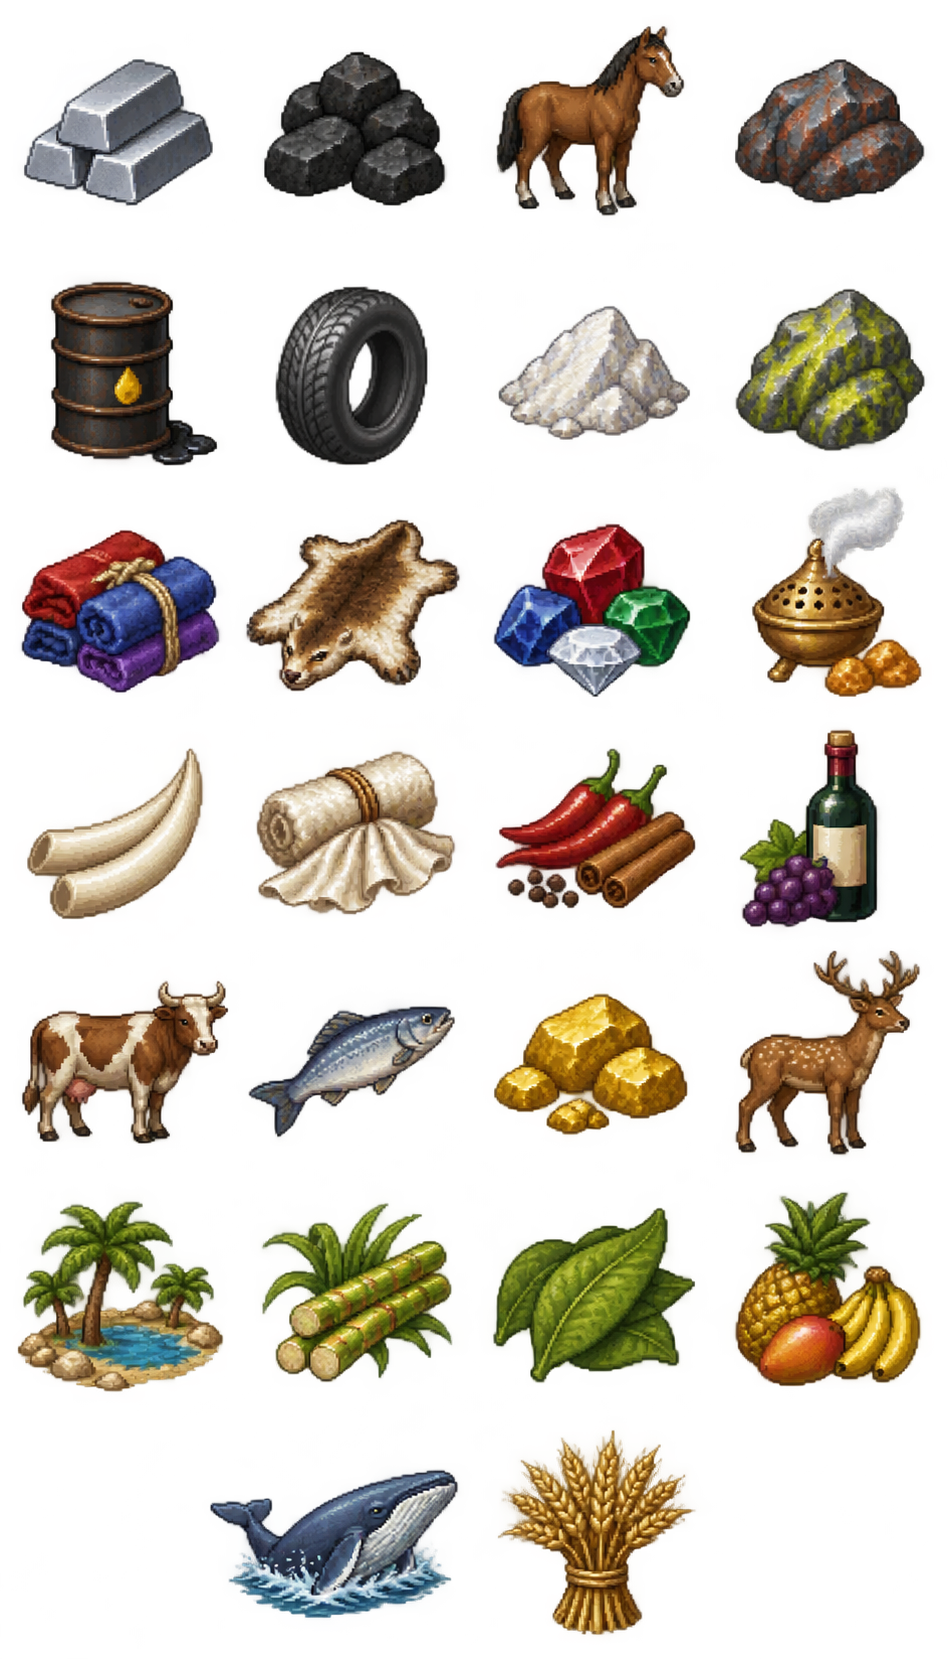
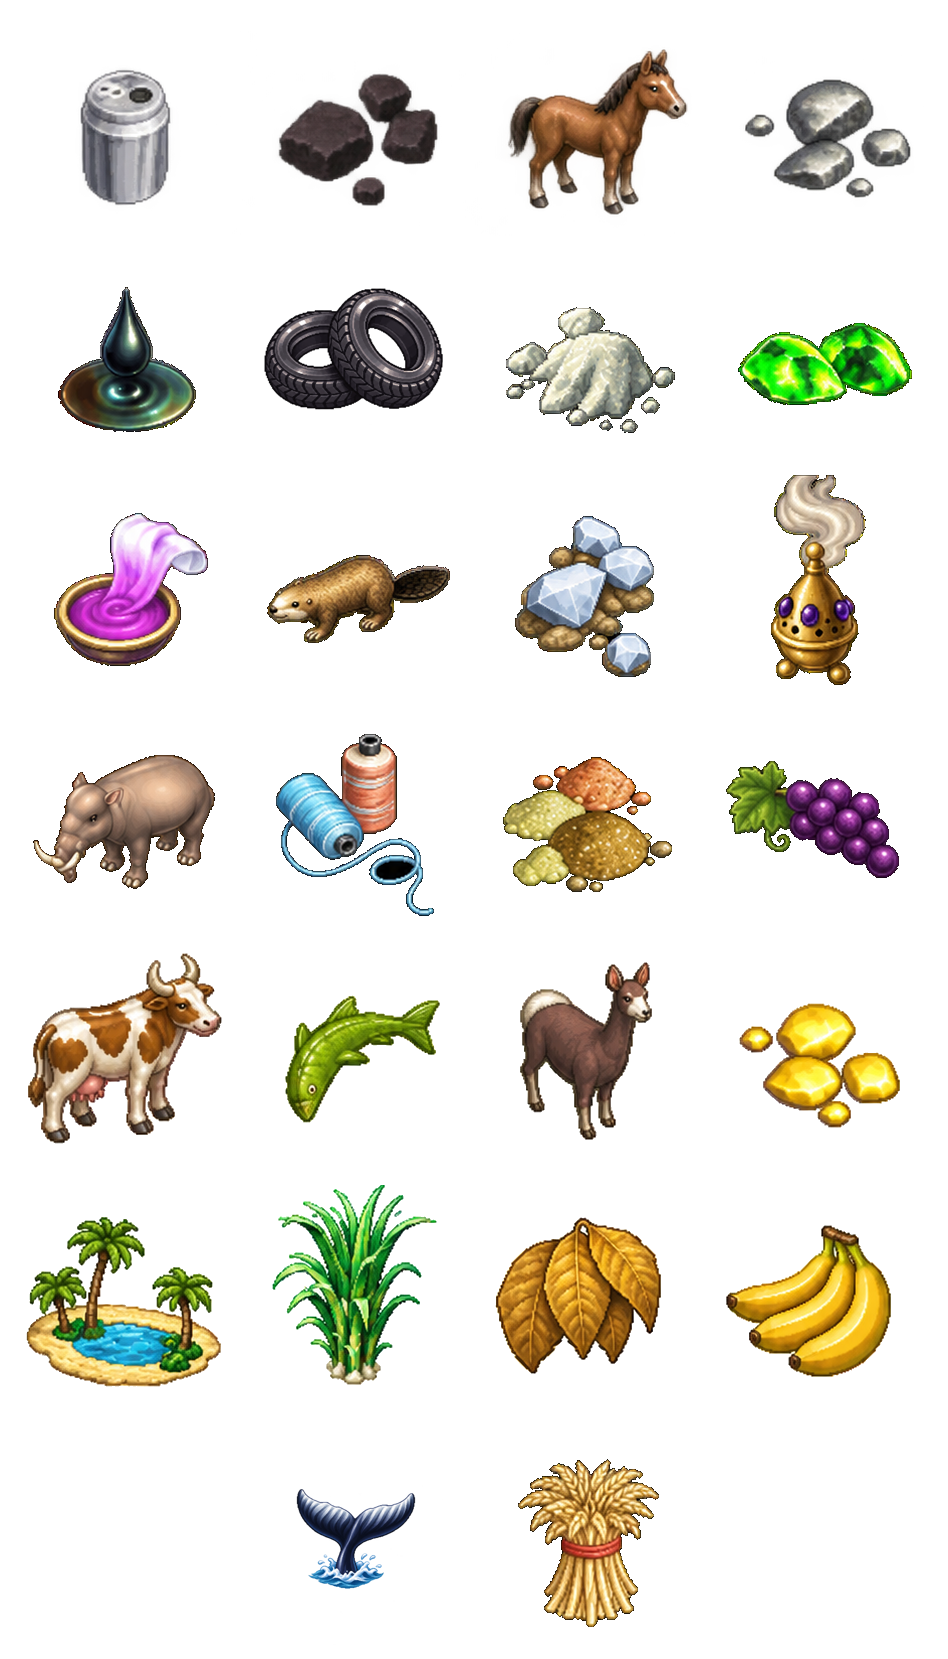
Update resource sprites and Ivory placement

diff --git a/src/sim/model.rs b/src/sim/model.rs
@@ -227,14 +227,17 @@ impl Tile {
             Terrain::Lake => matches!(resource, Fish),
             Terrain::Ocean => matches!(resource, Fish | Whales),
             Terrain::DeepOcean => false,
-            Terrain::Glacier => matches!(resource, Oil | Uranium),
+            // Glacier keeps the reference's "icy ivory" placement; Plains
+            // also support the land-animal version used by WrapX campaigns,
+            // which deliberately have no glacial terrain.
+            Terrain::Glacier => matches!(resource, Ivory | Oil | Uranium),
             Terrain::Desert => matches!(resource, Oasis | Oil | Incense | Saltpeter),
             Terrain::Forest => matches!(resource, Furs | Silk | Horses | Coal | Rubber),
             Terrain::Grassland => matches!(resource, Cattle | Horses | Wine | Tobacco),
             Terrain::Hills => matches!(resource, Coal | Wine | Iron | Aluminum | Saltpeter),
             Terrain::Jungle => matches!(resource, Gems | TropicalFruit | Dyes | Rubber | Sugar),
             Terrain::Mountains => matches!(resource, Gold | Iron | Aluminum | Uranium),
-            Terrain::Plains => matches!(resource, Cattle | Wheat | Horses | Iron | Oil),
+            Terrain::Plains => matches!(resource, Cattle | Wheat | Horses | Iron | Oil | Ivory),
             Terrain::Swamp => matches!(resource, Spice | Oil | Sugar),
             Terrain::Tundra => matches!(resource, Game | Furs | Oil),
         })
@@ -1521,6 +1524,28 @@ impl Player {
             } else {
                 "Rebel Council"
             })
+    }
+}
+
+#[cfg(test)]
+mod resource_terrain_tests {
+    use super::*;
+    use crate::sim::Simulation;
+
+    #[test]
+    fn ivory_is_active_on_plains_and_glaciers_but_not_unrelated_terrain() {
+        let mut sim = Simulation::new(crate::mapgen::generate(42));
+        let tile = sim.tile_mut(10, 10);
+        tile.resource = Some(Resource::Ivory);
+
+        tile.terrain = Terrain::Plains;
+        assert_eq!(tile.active_resource(), Some(Resource::Ivory));
+
+        tile.terrain = Terrain::Glacier;
+        assert_eq!(tile.active_resource(), Some(Resource::Ivory));
+
+        tile.terrain = Terrain::Hills;
+        assert_eq!(tile.active_resource(), None);
     }
 }
 

diff --git a/src/mapgen.rs b/src/mapgen.rs
@@ -744,14 +744,16 @@ impl Generator {
                     &[Fish, Whales]
                 }
                 Terrain::Ocean | Terrain::DeepOcean => &[],
-                Terrain::Glacier => &[Oil, Uranium],
+                Terrain::Glacier => &[Oil, Uranium, Ivory],
                 Terrain::Desert => &[Oasis, Oil, Incense, Saltpeter],
                 Terrain::Forest => &[Furs, Silk, Horses, Coal, Rubber],
                 Terrain::Grassland => &[Cattle, Horses, Wine, Tobacco],
                 Terrain::Hills => &[Coal, Wine, Iron, Aluminum, Saltpeter],
                 Terrain::Jungle => &[Gems, TropicalFruit, Dyes, Rubber, Sugar],
                 Terrain::Mountains => &[Gold, Iron, Aluminum, Uranium],
-                Terrain::Plains => &[Cattle, Wheat, Horses, Iron, Oil],
+                // Ivory also appears on plains so the default WrapX map can
+                // spawn it after its glacial terrain is converted to ocean.
+                Terrain::Plains => &[Cattle, Wheat, Horses, Iron, Oil, Ivory],
                 Terrain::Swamp => &[Spice, Oil, Sugar],
                 Terrain::Tundra => &[Game, Furs, Oil],
             };
@@ -1215,6 +1217,15 @@ pub(crate) fn generate_with_wrap(seed: u64, wrap: MapWrap) -> GeneratedMap {
 #[cfg(test)]
 mod wrap_generation_tests {
     use super::*;
+
+    #[test]
+    fn ivory_can_spawn_on_plains_in_default_wrap_x_campaigns() {
+        let map = generate_with_wrap(42, MapWrap::X);
+        assert!(map.tiles.iter().any(|tile| {
+            tile.terrain == Terrain::Plains && tile.resource == Some(Resource::Ivory)
+        }));
+    }
+
     #[test]
     fn cylinders_have_ocean_edges_without_polar_land_or_invalid_start_positions() {
         for seed in [0, 1, 42, 1337, 12345, 700001, 2147483647] {
